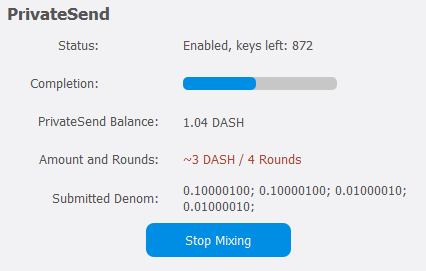
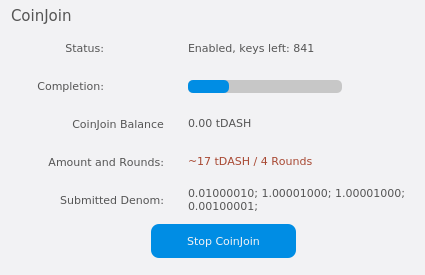
docs: update Core coinjoin page screenshots

diff --git a/wallets/dashcore/coinjoin-instantsend.rst b/wallets/dashcore/coinjoin-instantsend.rst
@@ -41,7 +41,7 @@ Configuration
 1. Open your Dash Core wallet, go to **Settings** and select
    **Options**. Go to the **CoinJoin** tab.
 
-   .. image:: img/options-privatesend.png
+   .. image:: img/options-coinjoin.png
       :width: 300px
 
 2. Next to **Mixing rounds**, enter a value between 2-16.
@@ -141,7 +141,7 @@ complete.
 You can also monitor CoinJoin progress by viewing the transactions
 created by the process on the **Transactions** tab.
 
-.. figure:: img/privatesend-transactions.png
+.. figure:: img/coinjoin-transactions.png
    :width: 400px
 
    Transactions created by CoinJoin on the Transactions tab
@@ -216,7 +216,7 @@ to the nearest 0.001 DASH). You will be prompted to enter your password
 and receive a detailed breakdown of the fee structure for CoinJoin
 before sending.
 
-.. figure:: img/privatesend-send.png
+.. figure:: img/coinjoin-send.png
    :width: 400px
 
    Dash Core ready to send a CoinJoin transaction. Note use of the
